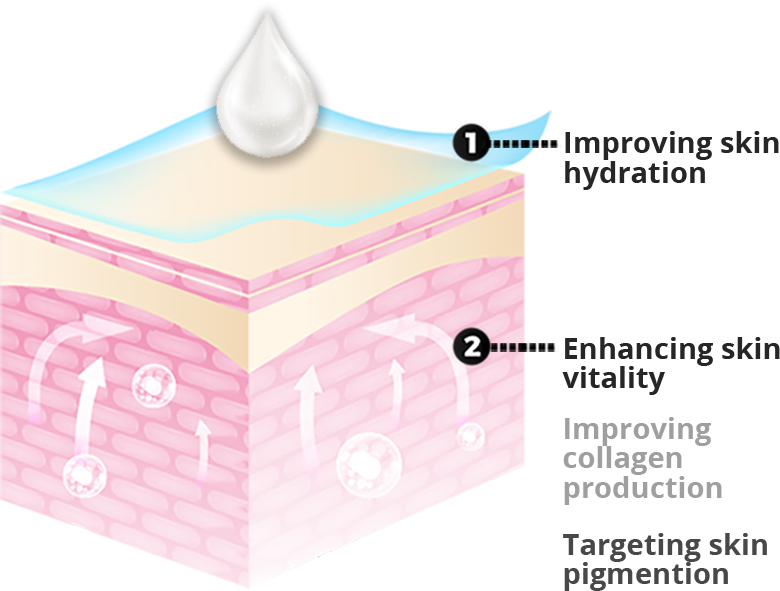
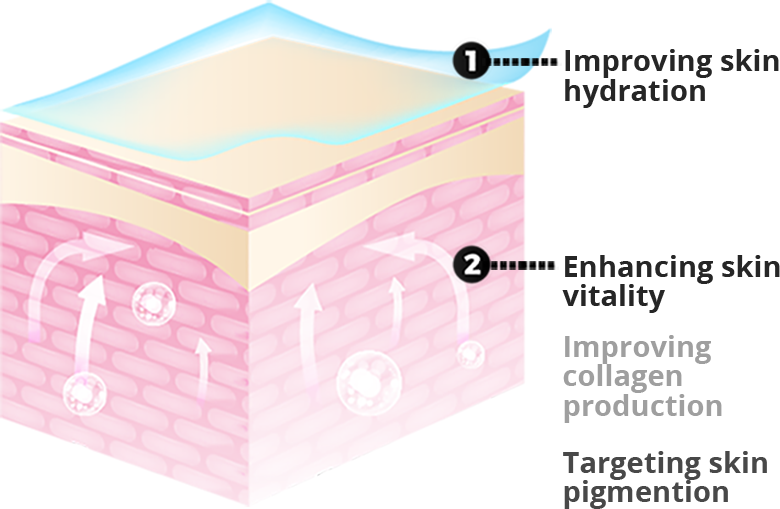
anime2

diff --git a/css/style.css b/css/style.css
@@ -2989,7 +2989,7 @@ body {
     }
 
     .white-head {
-        margin-top: 120vw;
+        margin-top: 85vw;
     }
 
     .white-text {
@@ -3468,13 +3468,28 @@ body {
         margin-top: 4vw;
         width: 74vw;
         line-height: 5vw;
+        position: relative;
     }
 
     .illustration2 {
         width: 82vw;
         height: 60vw;
         margin-left: 9vw;
+        margin-top: 20vw;
+        position: relative;
+        z-index: 0;
+    }
+
+    .drop2 {
+        position: absolute;
+        z-index: 999;
+        width: 18vw;
+        left: 27vw;
         margin-top: 10vw;
+        animation-name: floating_1;
+        animation-duration: 6s;
+        animation-iteration-count: infinite;
+        animation-timing-function: ease-in-out;
     }
 
     .btn-4 {
@@ -3926,7 +3941,7 @@ body {
         }
 
         .white-head {
-            margin-top: 50vw;
+            margin-top: 35vw;
         }
         
         .table-animation {
@@ -3943,7 +3958,7 @@ body {
 
     @media screen and (max-width: 375px) {
         .white-head {
-            margin-top: 40vw;
+            margin-top: 35vw;
         }
                 
         .section-1-text {
@@ -4006,7 +4021,7 @@ body {
       
     @media screen and (max-width: 320px) {
         .white-head {
-            margin-top: 35vw;
+            margin-top: 30vw;
         }
         
         .section-1-text {

diff --git a/index.html b/index.html
@@ -699,6 +699,7 @@
                                 skin for a radiant and energetic new look. Skin reaches new levels of fitness.  
                             </div>
                             <img class="illustration2" src="img/mobile/illustration-2.png" />
+                            <img class="drop2" src="img/mobile/drop.png" />
                             <div class="btn-3 btn-4">
                                 <a class="discover-btn3" href="#"><i class="fas fa-book"></i> Know more</a>
                             </div>
@@ -824,6 +825,7 @@
                                     enriched with sulfate content. By using a unique extraction 
                                     process, highly sulfated oligo-fucoidans are obtained.</div>
                             <img class="illustrration3" src="img/mobile/illustration-3.png" />
+                            
                             <img class="points-copy2" src="img/mobile/points copy 2.png" />
                             <div class="btn-3 btn-5">
                                     <a class="discover-btn3" href="#"><i class="fas fa-book"></i> Know more</a>
